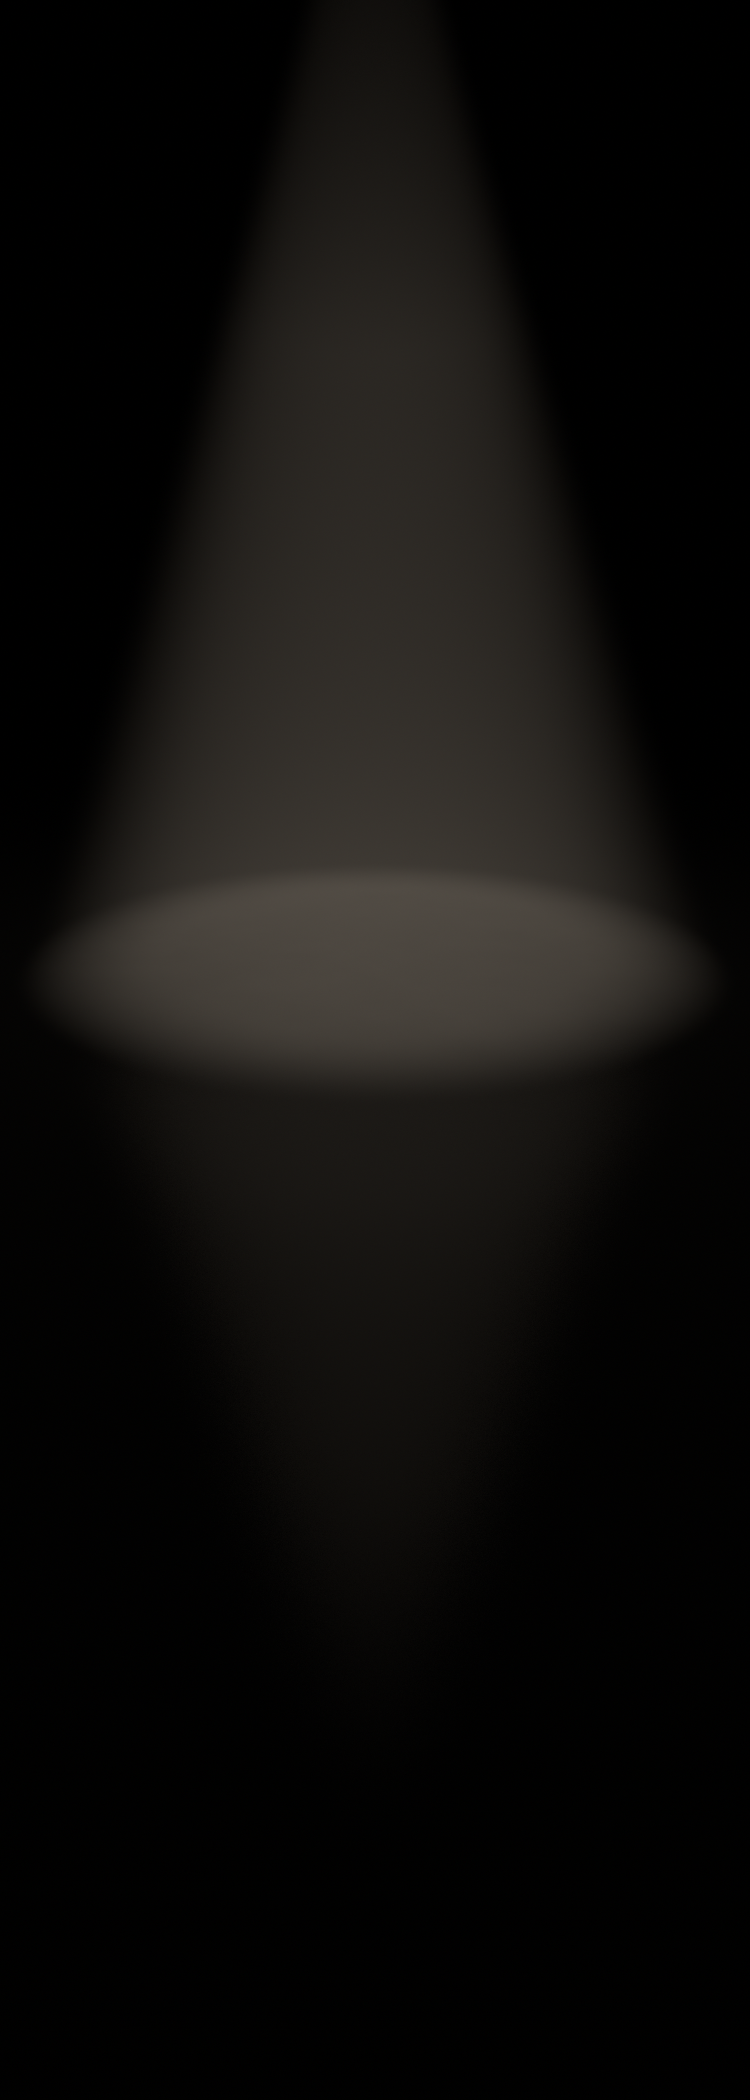
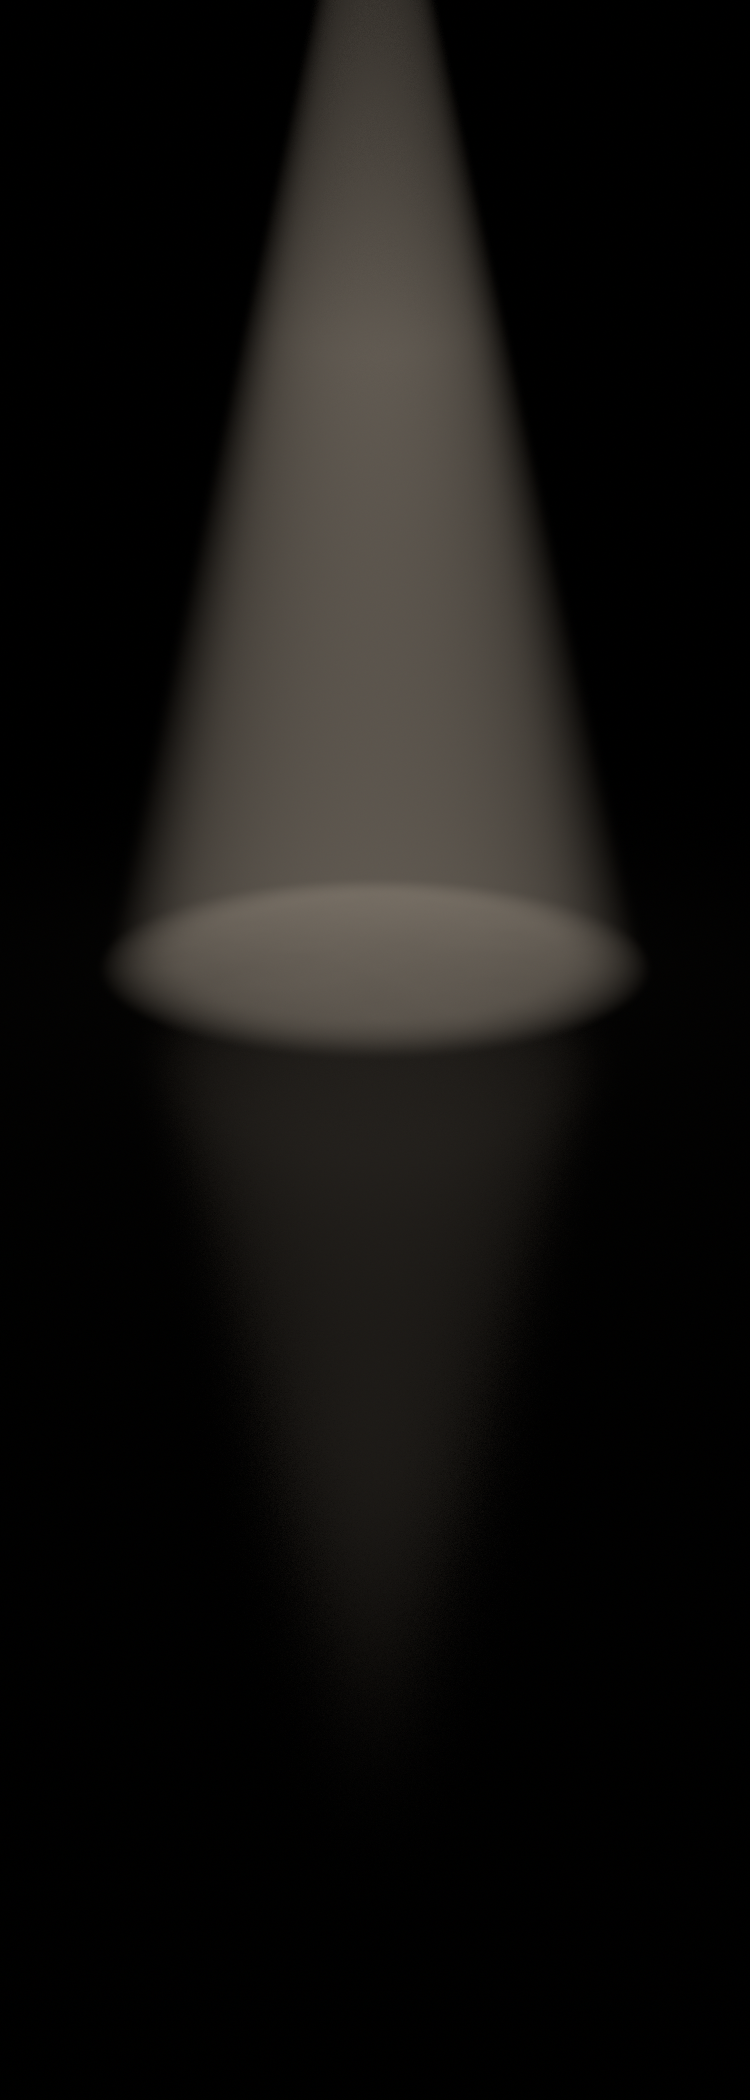
Spotlight: tighter, brighter pool, visible beam from above, darker surround

Changed region(s): [[0.0613, 0.0, 0.92, 0.5262]]

diff --git a/art/live3d/stages.py b/art/live3d/stages.py
@@ -108,7 +108,7 @@ def spot(X, Y, k, rng):
     P0 = anchor_world(k) + np.array([0.0, 0.0, -0.35])
     L = P0 + np.array([0.0, 9.0, 0.9])
     axis = nrm(P0 - L)
-    half, soft = math.radians(15.5), math.radians(4.0)
+    half, soft = math.radians(13.0), math.radians(2.5)
     warm = np.array([1.0, 0.86, 0.7])
 
     def cone(p):
@@ -123,7 +123,7 @@ def spot(X, Y, k, rng):
         for i in range(n):
             t = t0 + (t1 - t0) * (i + jit) / n
             p = o + d * t[..., None]
-            dens = np.exp(-np.maximum(p[..., 1], 0) / 3.2) * (p[..., 1] > 0)
+            dens = np.exp(-np.maximum(p[..., 1], 0) / 7.0) * (p[..., 1] > 0)
             acc = acc + cone(p) * dens * (t1 - t0) / n
         return acc
 
@@ -131,12 +131,12 @@ def spot(X, Y, k, rng):
     floor = np.isfinite(tf)
     col = np.zeros(rd.shape)
     beam = haze(np.broadcast_to(RO, rd.shape), rd, np.where(floor, tf, 22.0))
-    col += warm * 0.010 * beam[..., None]
+    col += warm * 0.026 * beam[..., None]
     # the pool: a dark glossy floor, its edge soft; a little light scattered round it
     irr = cone(F) * ss(0, 1, nrm(L - F)[..., 1])
     alb = 0.05 * (0.92 + 0.08 * fbm(F[..., 0] * 3, F[..., 2] * 3, 3, 7))
-    pool = warm * (alb * irr)[..., None] * 0.9
-    glow = warm * 0.0045 * np.exp(-np.hypot(F[..., 0] - P0[0], (F[..., 2] - P0[2]) * 1.0) / 2.6)[..., None]
+    pool = warm * (alb * irr)[..., None] * 1.7
+    glow = warm * 0.0025 * np.exp(-np.hypot(F[..., 0] - P0[0], (F[..., 2] - P0[2]) * 1.0) / 2.6)[..., None]
     # the floor mirrors the beam: the same haze along the mirrored ray, softened by the floor's roughness
     r = rd * np.array([1, -1, 1])
     refl = np.zeros(tf.shape)
@@ -144,7 +144,7 @@ def spot(X, Y, k, rng):
         rj = nrm(r + rng.normal(0, 0.035, r.shape))
         refl = refl + haze(F, rj, np.full(tf.shape, 22.0), 28) / 4
     fres = 0.04 + 0.96 * (1 - np.clip(-rd[..., 1], 0, 1)) ** 5
-    flo = pool + glow + warm * (0.010 * refl * np.minimum(fres * 4.0, 0.6))[..., None]
+    flo = pool + glow + warm * (0.013 * refl * np.minimum(fres * 4.0, 0.6))[..., None]
     col = np.where(floor[..., None], col + flo, col)
     return col
 
